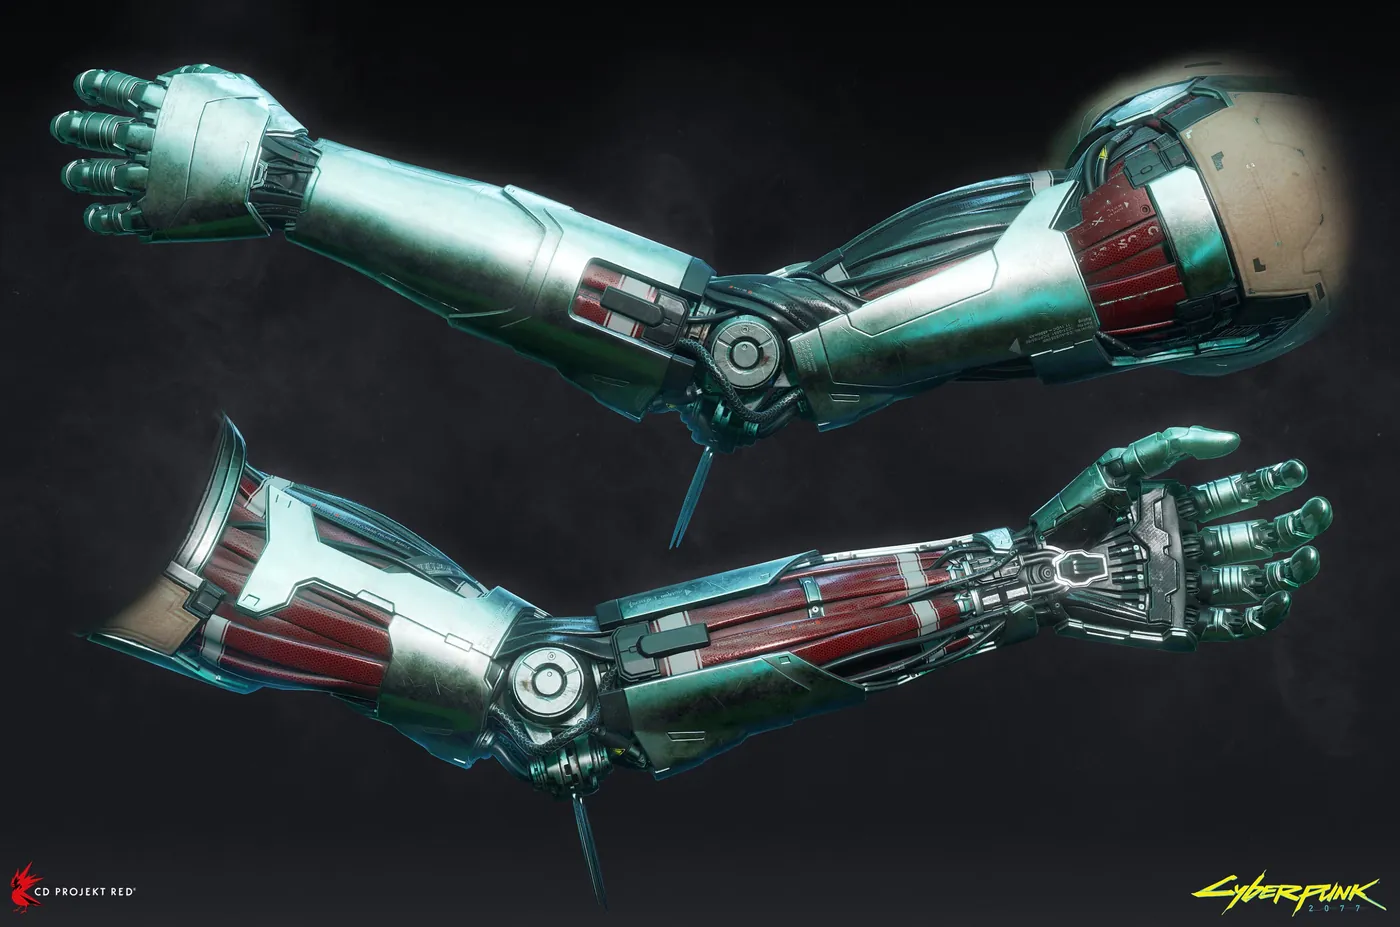
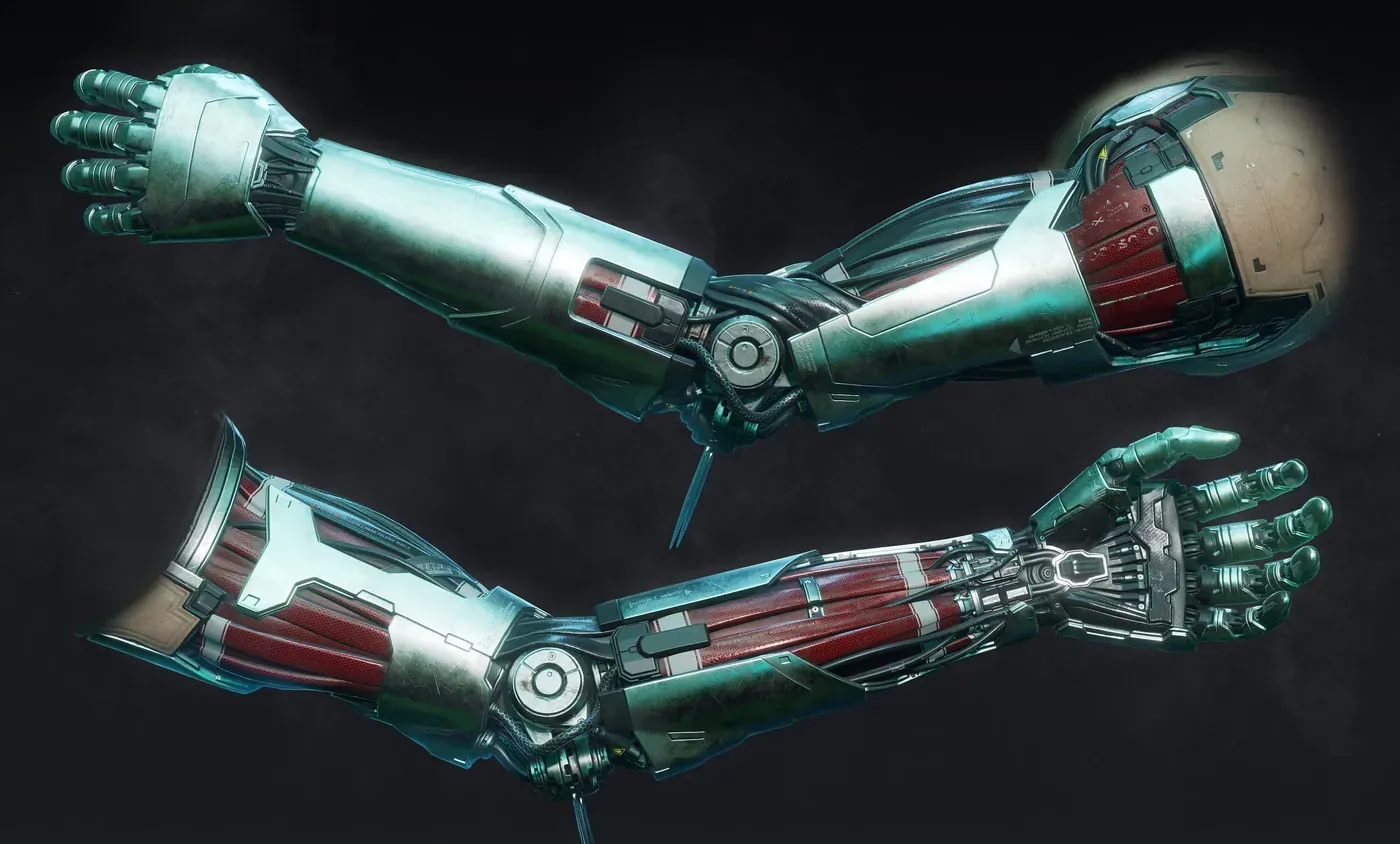
fix(ui): details from a full-page review
- Display headings: line-height 0.88 → 0.94, so the breve of Й and the
  dots of Ё no longer collide with the line above ("НИКОГДА НЕ /
  ПЕРЕСТАВАЙ", the developer note)
- Paragraphs use text-wrap: pretty, no lone word on the last line
- The hand-drawn ring around "МЁРТВ (2023)" no longer cuts the letters
- Samurai sticker sits on the evidence photo instead of floating alone
  in empty space under the dossier table
- Removed the cropped TOP SECRET watermark behind the classified sheet:
  only stray dark-red letter fragments were visible at the edges
- Cropped the baked-in Cyberpunk logo and CD PROJEKT RED caption off the
  bottom of the arm render

diff --git a/components/Biography.tsx b/components/Biography.tsx
@@ -34,11 +34,6 @@ const EVENTS = [
 const Biography = () => (
   <>
     <section id="bio" className="paper overflow-hidden py-20 md:py-32">
-      <img
-        src={ASSETS.samuraiLogo}
-        alt=""
-        className="sticker johnny-only bottom-12 left-[22%] hidden -rotate-12 lg:block"
-      />
       <div className="mx-auto max-w-[93.75rem] px-5 md:px-10">
         <SectionHead
           index="A1"
@@ -72,6 +67,11 @@ const Biography = () => (
           <RevealOnScroll direction="right">
             <div className="lg:sticky lg:top-24">
               <figure className="evidence mx-auto max-w-sm lg:mx-0 lg:max-w-md">
+                <img
+                  src={ASSETS.samuraiLogo}
+                  alt=""
+                  className="sticker johnny-only -right-8 top-1/3 rotate-12"
+                />
                 <span className="tape tape--tl" />
                 <span className="tape tape--tr" />
                 <div className="relative aspect-[4/5] overflow-hidden bg-black">

diff --git a/styles/main.css b/styles/main.css
@@ -78,6 +78,11 @@ body {
   -webkit-font-smoothing: antialiased;
 }
 
+/* No single word left alone on the last line of a paragraph */
+p {
+  text-wrap: pretty;
+}
+
 ::selection {
   background: var(--red);
   color: #000;
@@ -115,7 +120,8 @@ button:not(:disabled),
   font-family: var(--font-display);
   font-weight: 700;
   text-transform: uppercase;
-  line-height: 0.88;
+  /* 0.88 let the breve of Й and the dots of Ё hit the line above */
+  line-height: 0.94;
   letter-spacing: -0.015em;
   text-wrap: balance;
 }
@@ -1067,7 +1073,8 @@ body.crt-viewport-active {
 .circled::after {
   content: "";
   position: absolute;
-  inset: -0.25em -0.5em;
+  /* Wide enough that the ellipse clears the first and last letters */
+  inset: -0.35em -0.85em;
   border: 2px solid var(--red);
   border-radius: 50% 46% 52% 48% / 60% 52% 48% 40%;
   transform: rotate(-2deg);

diff --git a/components/ClassifiedSection.tsx b/components/ClassifiedSection.tsx
@@ -129,12 +129,6 @@ const ClassifiedSection = () => (
   <section className="relative overflow-hidden bg-ink py-20 md:py-28">
     <div className="hazard absolute inset-x-0 top-0 h-3" />
     <div className="hazard absolute inset-x-0 bottom-0 h-3" />
-    <div
-      className="display pointer-events-none absolute left-1/2 top-40 -translate-x-1/2 -rotate-6 whitespace-nowrap text-[26vw] text-blood/[0.06]"
-      aria-hidden="true"
-    >
-      Top secret
-    </div>
 
     <div className="relative mx-auto max-w-5xl px-2 md:px-5">
       <RevealOnScroll>

diff --git a/terminal/metadata.ts b/terminal/metadata.ts
@@ -95,7 +95,7 @@ export const META_OVERRIDES = {
     owner: "silverhand",
     group: "samurai",
     mode: 0o644,
-    size: 94702,
+    size: 85714,
     mediaType: "image/webp",
   },
   "/srv/silverhand/assets/archangel.jpg": {
